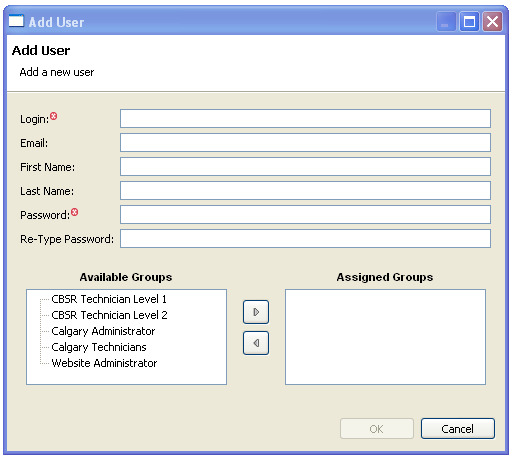
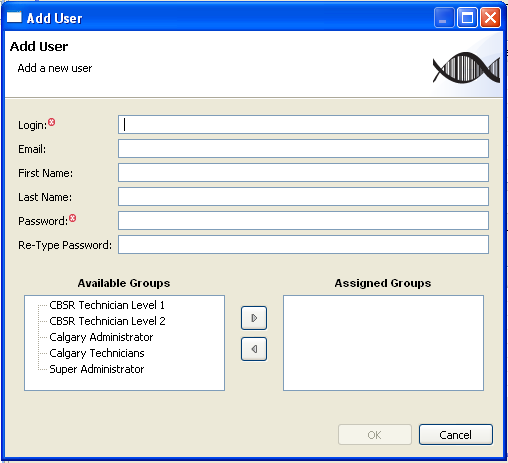
Documentation on user management + change password

Changed region(s): [[0.0, 0.0, 1.0, 1.0], [0.561, 0.5808, 0.9449, 0.6419], [0.4724, 0.6419, 0.561, 0.8253]]

diff --git a/docs/javaClientUserGuide/administration.tex b/docs/javaClientUserGuide/administration.tex
@@ -11,12 +11,35 @@
 \section{Source Vessels}
 \section{Shipping Methods}
 \section{Activity Status}
-\section{User Administration}
+\section{User Management}
+
+You can open the user/group administration dialog by selecting
+\texttt{Administration} $\to$ \texttt{User Management}.
+This menu is available only if you are a super administrator or administrator 
+of your working center. 
+
+You will see the dialog shown in \ref{fig:user_management}. It allows you to 
+add/delete/edit users and groups. If you are not super administrator, you will 
+only see users and groups of your current working center.
+\begin{figure}[H]
+  \centering
+  \scalebox{0.5}
+	   { \includegraphics*{screenshots/administration/user_management} }
+	   \caption{User management dialog.}
+	   \label{fig:user_management}
+\end{figure}
 
 \subsection{Adding Users}
-To add a new user select \texttt{Administration} $\to$ \texttt{Add User}
-from the main menu. You will see the following dialog window pop up. Enter the
+To add a new user, open the User Management dialog and click on the \fbox{+} button
+of the users section. You will see the following dialog window pop up. Enter the 
 user's details and press the \fbox{OK} button.
+
+A user should be assigned to at least one group. The centres assigned to these groups
+become the 'working centres' of the user.
+
+The password assigned to the new user is temporary. When the user logs in for
+the first time, he/she will be asked to enter the temporary password and
+select a new password.
 \begin{figure}[H]
   \centering
   \scalebox{0.5}
@@ -25,33 +48,102 @@ user's details and press the \fbox{OK} button.
 	   \label{fig:add_user}
 \end{figure}
 
-For \texttt{Available Groups} the following exist:
-\begin{description}
-\item[Website Administrator] This user type has acces to create any type of
-  object in the system: create repository sites, studies, clinics and
-  containers, etc. This user type can also edit global data such as sample
-  types, shipment methods, etc. And also create and edit users.
-\item[CBSR Technician Level 1] This user type can view, update, create and
-  delete patients, shipments, samples, sample types and containers. This user
-  type cannot create repository sites, studies and clinics.
-\item[CBSR Technician Level 2] This user type can view, update and create
-  patients, shipments and samples. This user type cannot create repository
-  sites, studies and clinics.
-\item[Calgary Administrator] \todo[size=\small]{description requried?}.
-\item[Calgary Technician] \todo[size=\small]{description requried?}.
-\end{description}
 
-The password assigned to the new user is temporary. When the user logs in for
-the first time, he / she will be asked to enter the temporary password and
-select a new password.
-
-\subsection{Editing Users}
+\subsection{Modifying Users}
+To modify a user, open the User Management dialog, right click on the user and select 
+edit or delete on the pop-up. If edit is selected, then the same dialog as in \ref{fig:add_user} is displayed.
 \begin{figure}[H]
   \centering
   \scalebox{0.5}
-	   { \includegraphics*{screenshots/administration/edit_users} }
-	   \caption{Editing users.}
-	   \label{fig:edit_users}
+	   { \includegraphics*{screenshots/administration/edit_delete_user} }
+	   \caption{Pop-up to edit or delete users.}
+	   \label{fig:edit_delete_users}
 \end{figure}
 
-\subsection{Password Change}
+
+\subsection{Adding Groups}
+To add a new group, open the User Management dialog and click on the \fbox{+} button 
+of the groups section. You will see the following dialog window pop up. Enter the group's 
+details and press the \fbox{OK} button.
+\begin{figure}[H]
+  \centering
+  \scalebox{0.5}
+	   { \includegraphics*{screenshots/administration/add_group} }
+	   \caption{Adding a group.}
+	   \label{fig:add_group}
+\end{figure}
+
+\begin{description}
+\item[Name] Give a short name, but with enough information to know what working centres the group refers to.
+\item[Is administrator] Check this box if users of this group will also administrate the centre(s). 
+If this box is checked then all features will be authorized for this group, the user management will be available for the centre, and features like create/edit/delete containers and container types will be available. Super administration features like create/edit/delete clinic, studies, sites won't be available (see Super Administrator group description in \ref{predefined_groups}). 
+\item[Working centres] The group should be assigned to at least one working centre. 
+\item[Specific features] This defines the features that the users of this group will be able to perform in the selected working centres.
+\end{description}
+
+\subsubsection{Features available}
+\begin{description}
+\item[Assign positions] User will be able to assign positions to specimens
+\item[Clinic Shipments] User will be able to create/edit/delete clinic shipments (this feature is supposed to be CBSR specific for clinics not using the software)
+\item[Collection Event] User will be able to create/edit/delete collection events
+\item[Dispatch/Request] User will be able to create/edit/delete dispatches and requests
+\item[Link Specimen] User will be able to link aliquoted specimens to their source specimens
+\item[Printer Labels] User will be able to use the print labels menu
+\item[Processing Event] User will be able to create/edit/delete processing events
+\item[Reports] User will be able to access the report view
+\end{description}
+
+\subsubsection{Predefined groups}
+\label{predefined_groups}
+\begin{description}
+\item[Super Administrator] This user type has access to every views of the software 
+  and can create/delete/edit any type of object in the system, and to all centres. 
+  This group is meant to users that will administrate the whole application (including users management).
+\item[CBSR Technician Level 1] This group's users are administrator the site CBSR. They have access to all the features of the application for the site CBSR only. This user type cannot create repository sites, studies and clinics because these are Super administration features.
+\item[CBSR Technician Level 2] This user type has a restricted access to features on site CBSR.
+  For instance this group's users cannot create repository sites, studies, clinics, containers, 
+  container types.
+\item[Calgary Administrator] This groups is similar to the CBSR Technician Level 1 except that it is specific to the site Calgary.
+\item[Calgary Technician] This groups is similar to the CBSR Technician Level 2 except that it is specific to the site Calgary.
+\end{description}
+
+\subsection{Examples}
+
+\subsubsection{Site group}
+
+A site group will need almost all the features since it needs to see collection events, receive dispatches, create processing events, link specimens, assign positions and answer requests.
+In that case the following features should be added to this group: Assign positions, Collection Event, Dispatch/Request, Link Specimen, Processing Event.
+
+\subsubsection{Site group with administration}
+
+If the previous group should also be a administrator group, then the 'Is administrator of these working centres' box should be checked. This will be applied to all users of the group, so you might need to create two different groups, the one describe previously and this one, which give full administration of the site.
+
+\subsubsection{Clinic group}
+
+A clinic group don't need all functionalities of the application. Most of the time, it will only need to create collection events and dispatches. If it also aliquot specimen, it might also need to link them.
+In that case the following features should be added to this group: Collection Event, Dispatch/Request, Link Specimen.
+
+\subsubsection{Clinic group with administration}
+
+If the previous group should also be a administrator group, then the 'Is administrator of these working centres' box should be checked. This will be applied to all users of the group, so you might need to create two different groups, the one describe previously and this one, which give full administration of the clinic.
+
+\subsubsection{Technician user}
+A technician user that does not need to access any administration, will usually be assigned to a single group, with no administration privileges, for example 'CBSR Technician Level 2' or 'Calgary Technician'.
+
+\subsubsection{Center administrator user}
+A user that will administrate its site, will usually be assigned to a single group with administration privileges, for example 'CBSR Technician Level 1' or 'Calgary Administrator'.
+
+\subsubsection{Center administrator user and Super administrator}
+A user that need full access for its own centre and also need to administrate the full application will be assigned to two groups: Super Administrator + its centre group (for instance 'CBSR Technician Level 1').
+
+\section{Password Change}
+
+A user connected to the application can modify its password. This can be done by switching to the administration view and selecting \texttt{Administration} $\to$ \texttt{Change password}. You will see the following dialog window pop up. Enter the old password and the new password twice and press the \fbox{OK} button. You will then be asked to connect again.
+\begin{figure}[H]
+  \centering
+  \scalebox{0.5}
+	   { \includegraphics*{screenshots/administration/change_password} }
+	   \caption{Changing the password.}
+	   \label{fig:change_password}
+\end{figure}
+
